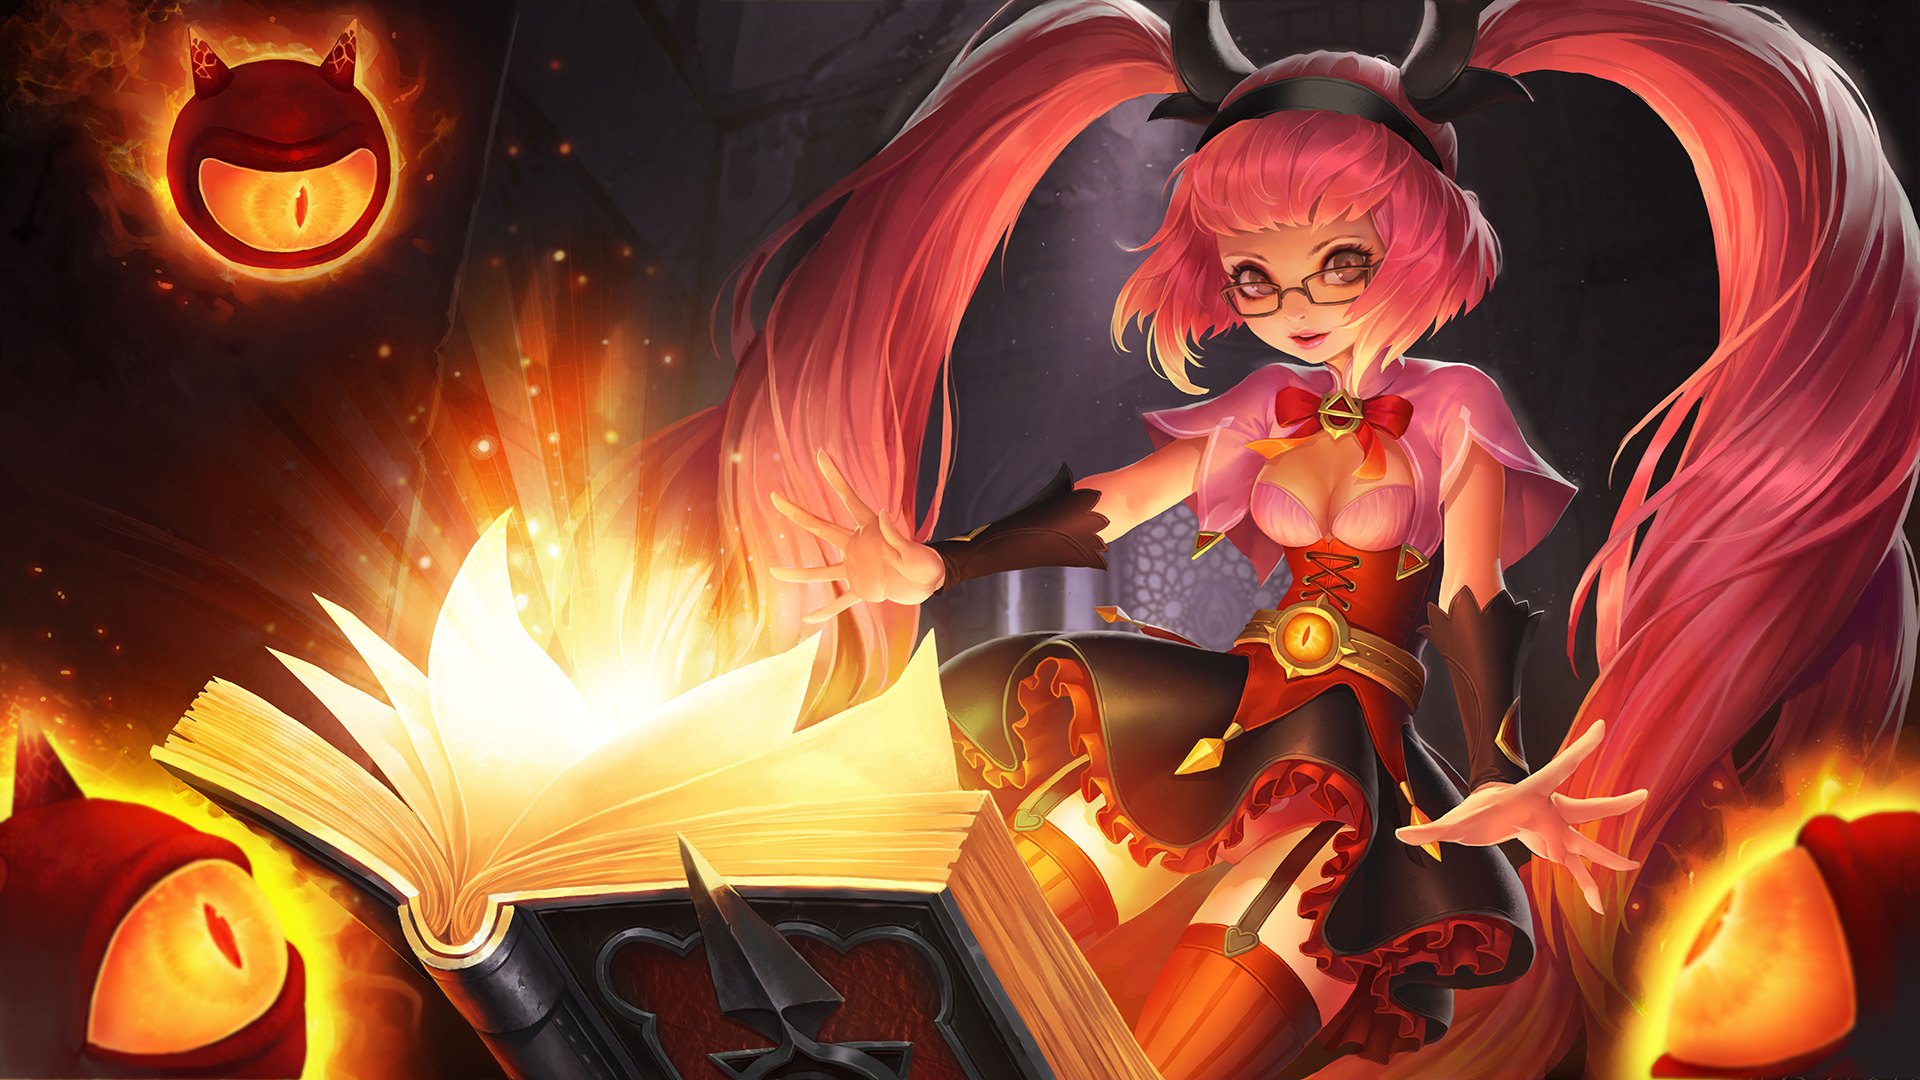
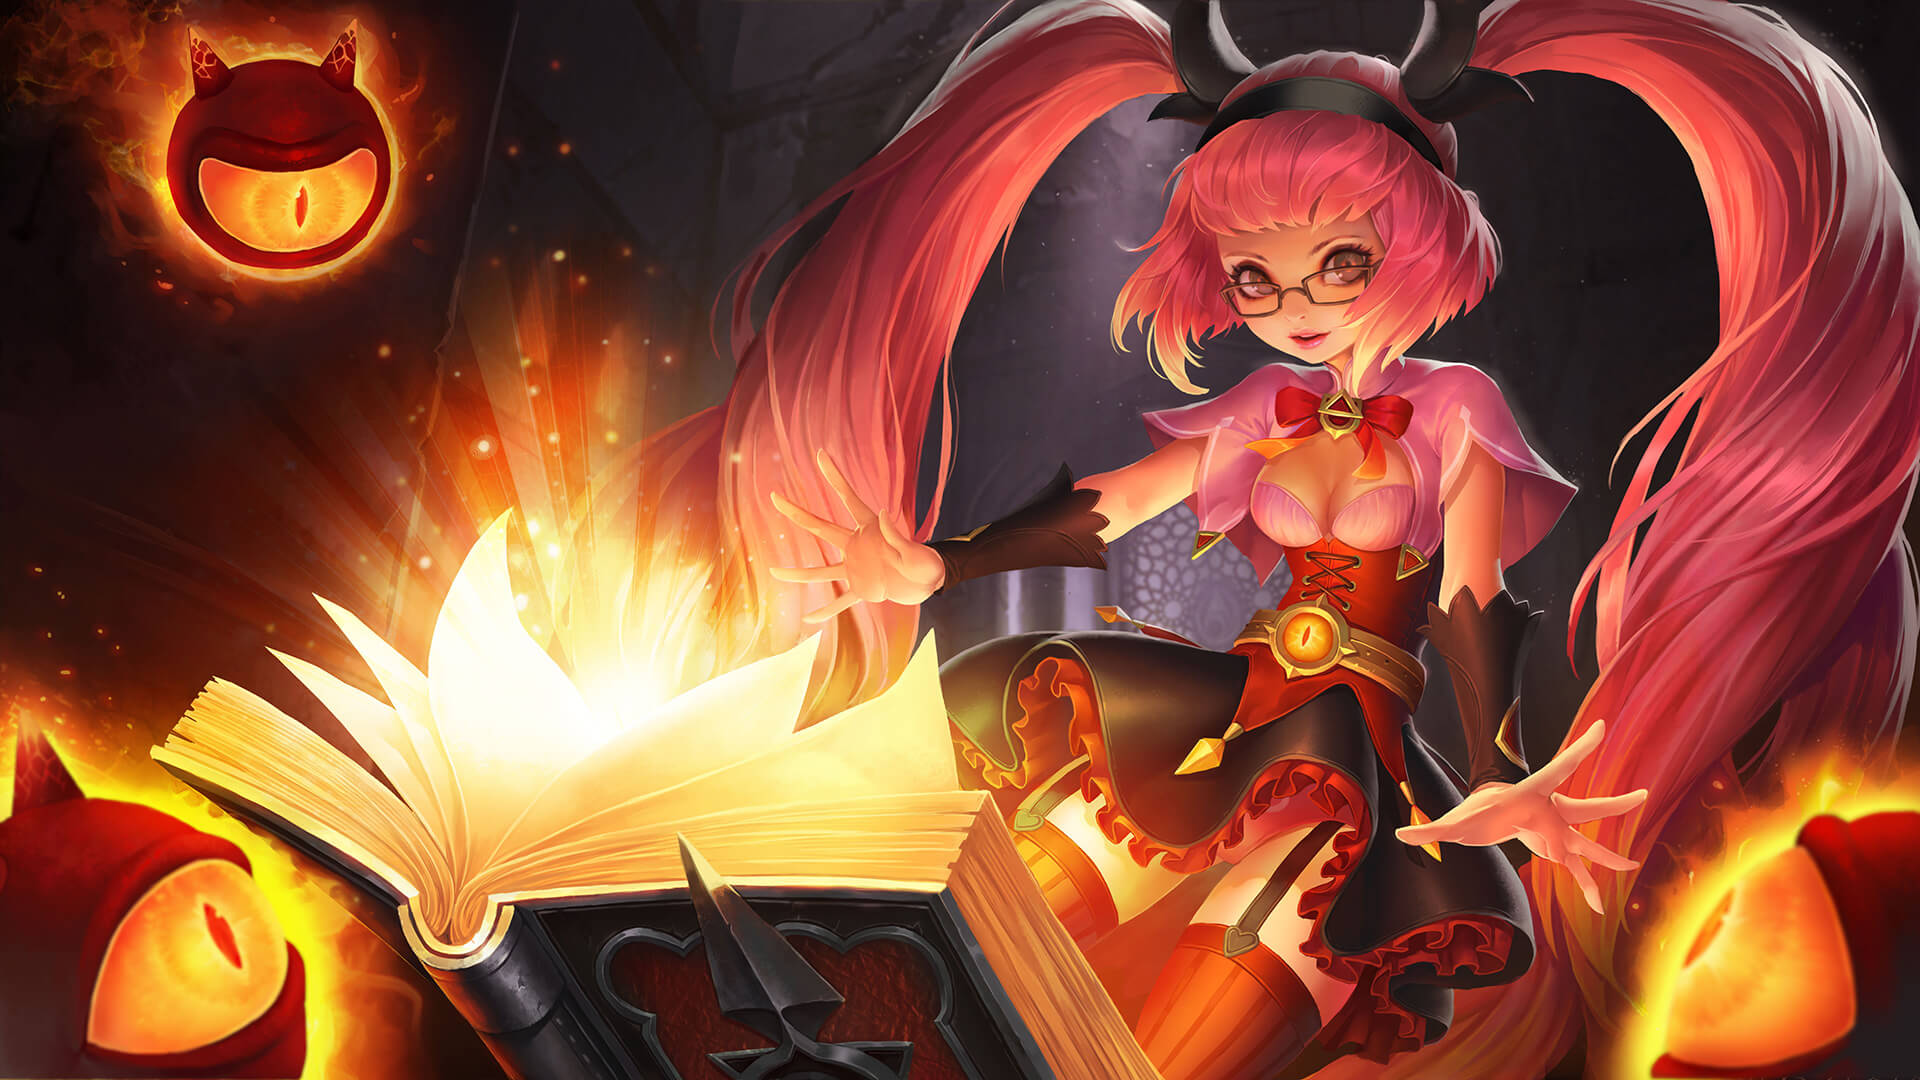
优化图片大小

diff --git a/一个简单的交互式响应页面/js/main.js b/一个简单的交互式响应页面/js/main.js
@@ -1,29 +1,23 @@
-function animate() {
-	$(".barline").each(function (i, item) {
-		var a = parseInt($(item).attr("data-width"));
-		$(item).animate({
-			width: a + "%"
-		}, 1000);
-	});
-}
-animate();
-
-$('.heros .hero > img').on('mouseenter',function(e){
-	var $click = $(e.target)
-	var $a = $click.siblings('.wrapper').find('.barline')
-	$a.css("width","0")
-	function animate() {
-	$a.each(function (i, item) {
+function animate(selector) {
+	selector.each(function (i, item) {
 		let a = parseInt($(item).attr("data-width"));
 		$(item).animate({
 			width: a + "%"
 		}, 1000);
 	});
 }
-animate();
+let $barline = $(".barline")
+animate($barline);
+
+$('.heros .hero > img').on('mouseenter',function(e){
+	let $click = $(e.target)
+	let $a = $click.siblings('.wrapper').find('.barline')
+	$a.css("width","0")
+	$a.css("width","0")
+animate($a);
 })
 
-
+// 轮播组件
 jQuery(function ($) {
 	$('#demo21').swiper({
 		pagination: '#demo21 .swiper-pagination',

diff --git a/一个简单的交互式响应页面/index.html b/一个简单的交互式响应页面/index.html
@@ -154,7 +154,7 @@
                                 </ul>
                             </li>
                         </ul>
-                        <p>不知道你的名字，但清楚你的死期</p>
+                        <p>かかってらしゃい</p>
                     </div>
                 </li>
                 <li>

diff --git a/一个简单的交互式响应页面/css/style.css b/一个简单的交互式响应页面/css/style.css
@@ -31,6 +31,7 @@ ol,ul,li{list-style:none;}
 
 .banner .swiper-container img{
     width:100%;
+    border-radius:8px;
 }
 
 @media(min-width:418px){
